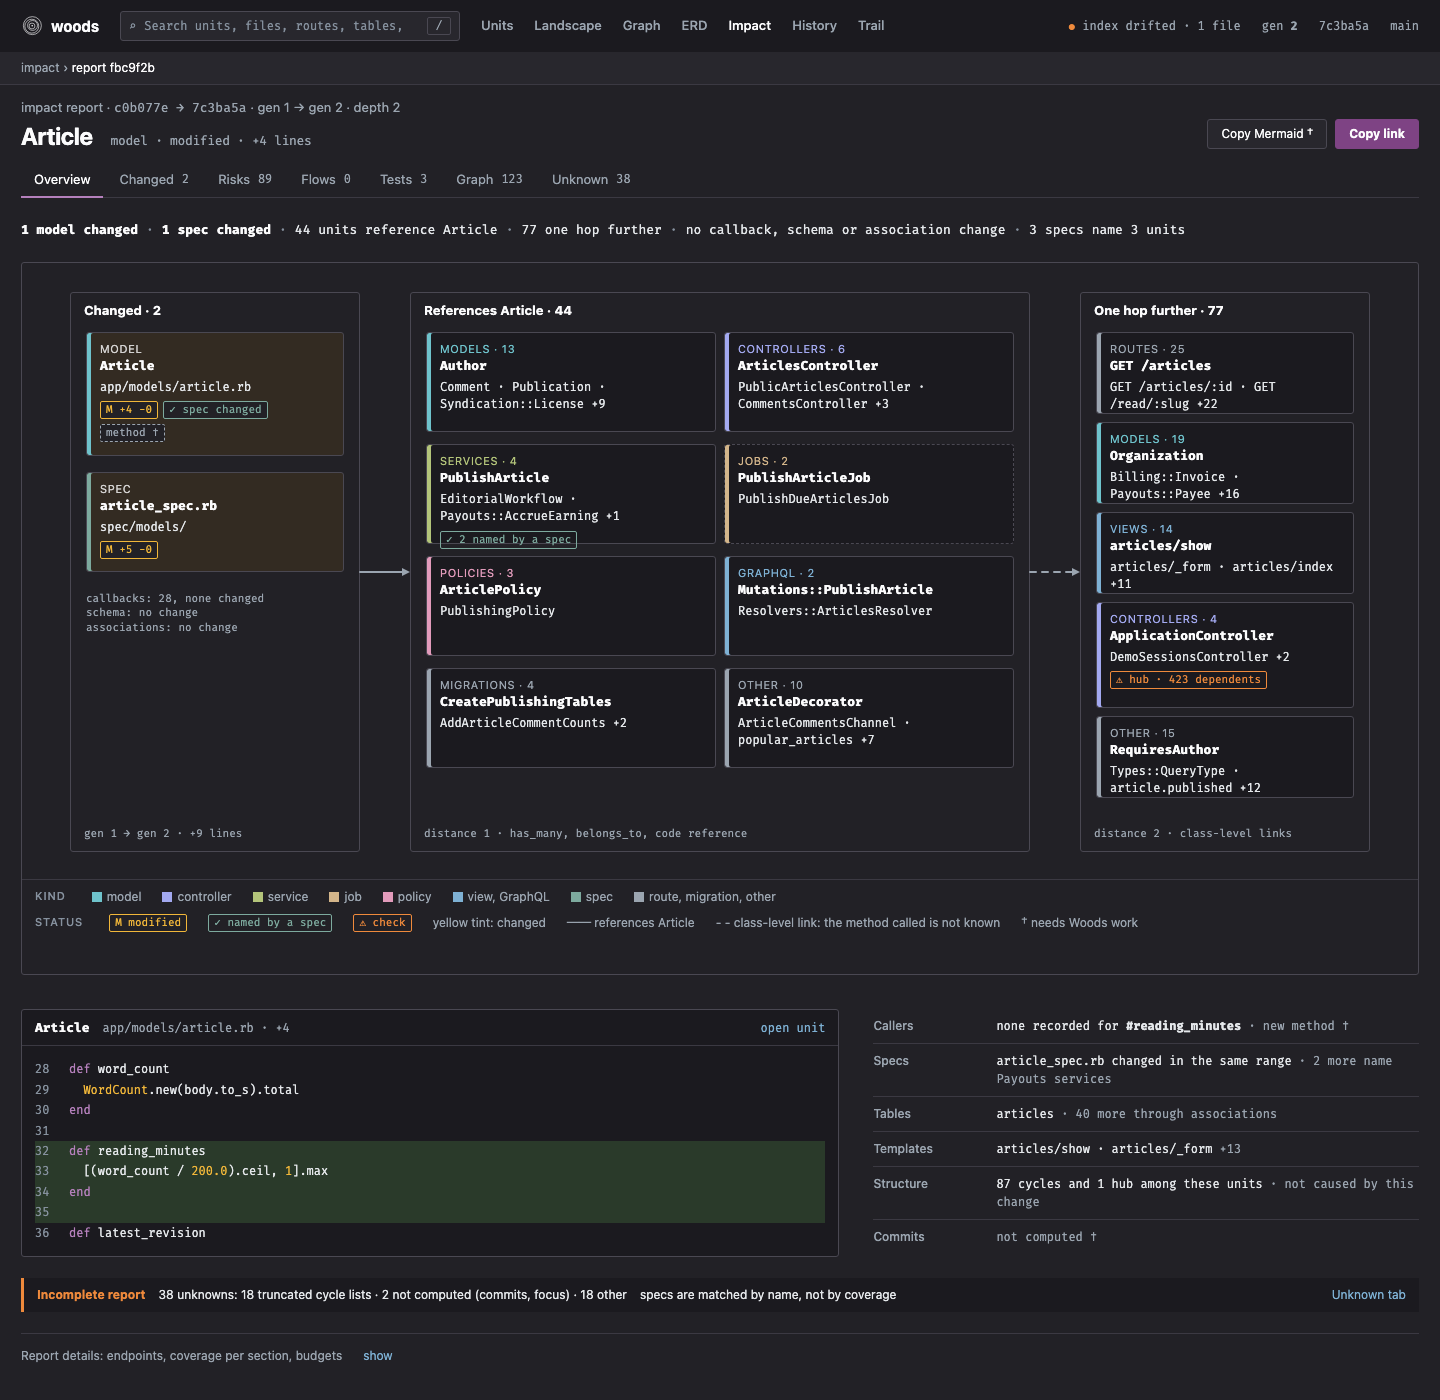
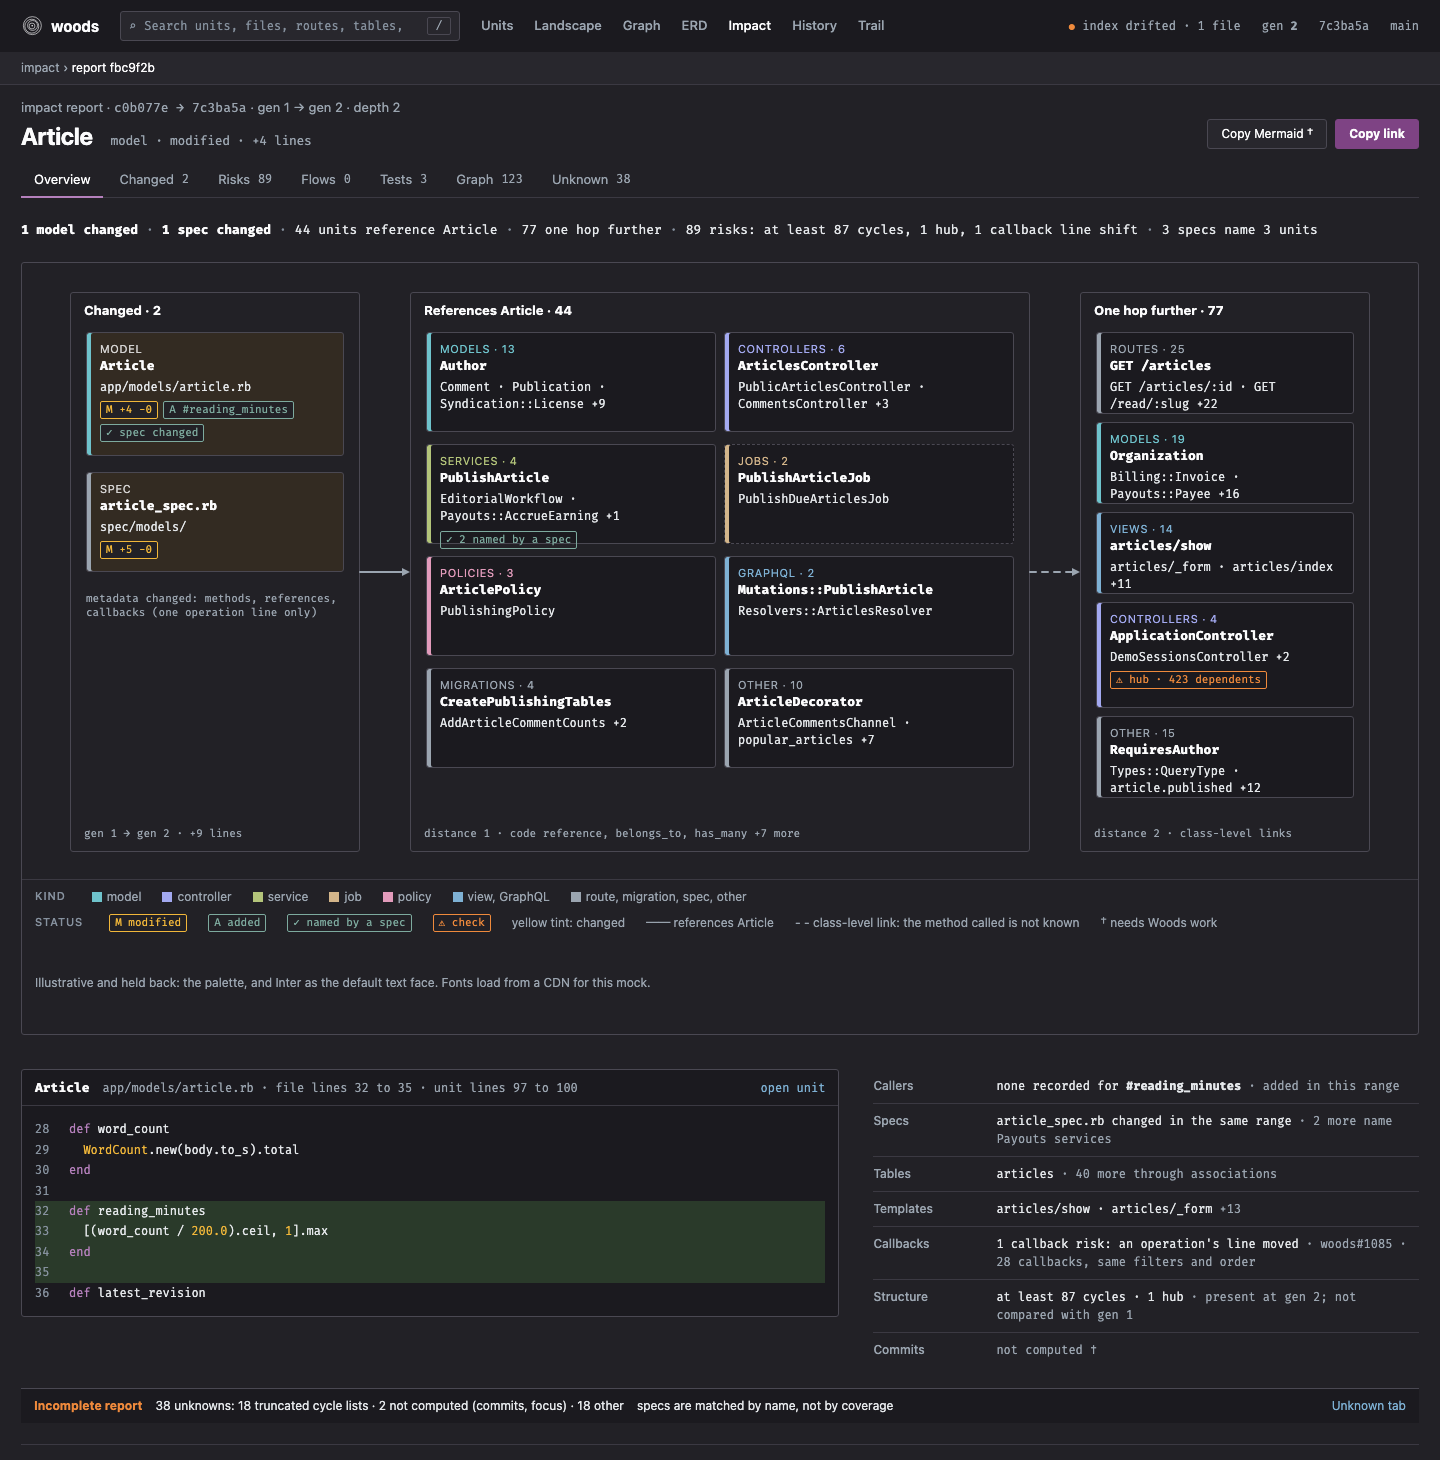
docs(design): correct the impact report board after review
Names the callback risk and its cause, states cycles and hubs as a floor read at gen 2, shows the changed method name, gives file and unit lines, and takes the status green off the spec kind.

diff --git a/docs/design/proposals/ux-review-2026-11/boards/impact-report.html b/docs/design/proposals/ux-review-2026-11/boards/impact-report.html
@@ -4,9 +4,8 @@
 <link rel="stylesheet" href="../../../foundations/tokens.css">
 <link rel="stylesheet" href="../review.css">
 <style>body{margin:0;background:#222126}
-.wm{--kind-spec:var(--l-green)} .wm .k-spec{--kc:var(--kind-spec)}
 .wm .dbox{align-items:flex-start;padding-top:var(--s3)}
-.wm .lim{display:flex;flex-wrap:wrap;gap:var(--s2) var(--s4);align-items:center;margin-top:var(--s5);padding:var(--s3) var(--s4);border-left:3px solid var(--l-orange);background:var(--panel);font-size:var(--fs-12);color:var(--text)}
+.wm .lim{display:flex;flex-wrap:wrap;gap:var(--s2) var(--s4);align-items:center;margin-top:var(--s5);padding:var(--s3) var(--s4);border-top:1px solid var(--rule2);background:var(--panel);font-size:var(--fs-12);color:var(--text)}
 .wm .lim b{color:var(--l-orange);font-weight:700} .wm .lim a{margin-left:auto}
 .wm .more{display:flex;gap:var(--s5);margin-top:var(--s5);padding-top:var(--s4);border-top:1px solid var(--rule);font-size:var(--fs-12);color:var(--mut)}
 </style></head>
@@ -16,16 +15,16 @@
 <div class="ident"><div><p class="ctx">impact report · <span class="id">c0b077e → 7c3ba5a</span> · gen 1 → gen 2 · depth 2</p><h1 class="t1">Article <span class="sub">model · modified · +4 lines</span></h1></div><div class="ctl"><button class="btn" type="button">Copy Mermaid †</button><button class="btn primary" type="button">Copy link</button></div></div>
 <div class="tabs page-tabs" role="tablist"><button class="tab" role="tab" type="button" aria-selected="true">Overview</button><button class="tab" role="tab" type="button" aria-selected="false">Changed <span class="cnt">2</span></button><button class="tab" role="tab" type="button" aria-selected="false">Risks <span class="cnt">89</span></button><button class="tab" role="tab" type="button" aria-selected="false">Flows <span class="cnt">0</span></button><button class="tab" role="tab" type="button" aria-selected="false">Tests <span class="cnt">3</span></button><button class="tab" role="tab" type="button" aria-selected="false">Graph <span class="cnt">123</span></button><button class="tab" role="tab" type="button" aria-selected="false">Unknown <span class="cnt">38</span></button></div>
 <div class="r4">
-<p class="sum"><b>1 model changed</b><span class="sep">·</span><b>1 spec changed</b><span class="sep">·</span>44 units reference Article<span class="sep">·</span>77 one hop further<span class="sep">·</span>no callback, schema or association change<span class="sep">·</span>3 specs name 3 units</p>
+<p class="sum"><b>1 model changed</b><span class="sep">·</span><b>1 spec changed</b><span class="sep">·</span>44 units reference Article<span class="sep">·</span>77 one hop further<span class="sep">·</span>89 risks: at least 87 cycles, 1 hub, 1 callback line shift<span class="sep">·</span>3 specs name 3 units</p>
 <div class="dia"><div class="dhost" role="img" aria-label="Article and its spec changed. 44 units reference Article directly, grouped by kind. 77 more units are one hop further." style="width:1320px;height:590px;margin:var(--s4) auto">
 <div class="dgroup" style="left:10px;top:16px;width:290px;height:560px"><span>Changed · 2</span><em>gen 1 → gen 2 · +9 lines</em></div>
-<div class="dgroup" style="left:350px;top:16px;width:620px;height:560px"><span>References Article · 44</span><em>distance 1 · has_many, belongs_to, code reference</em></div>
+<div class="dgroup" style="left:350px;top:16px;width:620px;height:560px"><span>References Article · 44</span><em>distance 1 · code reference, belongs_to, has_many +7 more</em></div>
 <div class="dgroup" style="left:1020px;top:16px;width:290px;height:560px"><span>One hop further · 77</span><em>distance 2 · class-level links</em></div>
 <svg aria-hidden="true" width="54" height="8" style="position:absolute;left:296px;top:292px;overflow:visible;fill:none;stroke:#9BA5B0;stroke-width:2;stroke-linecap:round"><defs><marker id="ah" orient="auto" markerWidth="5" markerHeight="5" refX="2" refY="2" overflow="visible"><path d="M0 0 L4 2 L0 4 Z" style="stroke:none;fill:#9BA5B0"/></marker></defs><path d="M 4 4 L 50 4" marker-end="url(#ah)"></path></svg>
 <svg aria-hidden="true" width="54" height="8" style="position:absolute;left:966px;top:292px;overflow:visible;fill:none;stroke:#9BA5B0;stroke-width:2;stroke-linecap:round;stroke-dasharray:6 6"><defs><marker id="ah" orient="auto" markerWidth="5" markerHeight="5" refX="2" refY="2" overflow="visible"><path d="M0 0 L4 2 L0 4 Z" style="stroke:none;fill:#9BA5B0"/></marker></defs><path d="M 4 4 L 50 4" marker-end="url(#ah)"></path></svg>
-<div class="dbox k-model chgd" style="left:26px;top:56px;width:258px;height:124px"><span><span class="kd">model</span><b>Article</b><span class="names">app/models/article.rb</span><span class="chips"><span class="sv m">M +4 −0</span><span class="sv ok">✓ spec changed</span><span class="sv q">method †</span></span></span></div>
-<div class="dbox k-spec chgd" style="left:26px;top:196px;width:258px;height:100px"><span><span class="kd">spec</span><b>article_spec.rb</b><span class="names">spec/models/</span><span class="chips"><span class="sv m">M +5 −0</span></span></span></div>
-<div class="dlab" style="left:26px;top:316px;width:258px;text-align:left">callbacks: 28, none changed<br>schema: no change<br>associations: no change</div>
+<div class="dbox k-model chgd" style="left:26px;top:56px;width:258px;height:124px"><span><span class="kd">model</span><b>Article</b><span class="names">app/models/article.rb</span><span class="chips"><span class="sv m">M +4 −0</span><span class="sv a">A #reading_minutes</span><span class="sv ok">✓ spec changed</span></span></span></div>
+<div class="dbox k-route chgd" style="left:26px;top:196px;width:258px;height:100px"><span><span class="kd">spec</span><b>article_spec.rb</b><span class="names">spec/models/</span><span class="chips"><span class="sv m">M +5 −0</span></span></span></div>
+<div class="dlab" style="left:26px;top:316px;width:258px;text-align:left">metadata changed: methods, references,<br>callbacks (one operation line only)</div>
 <div class="dbox k-model " style="left:366px;top:56px;width:290px;height:100px"><span><span class="kd">models · 13</span><b>Author</b><span class="names">Comment · Publication · Syndication::License +9</span></span></div>
 <div class="dbox k-controller " style="left:664px;top:56px;width:290px;height:100px"><span><span class="kd">controllers · 6</span><b>ArticlesController</b><span class="names">PublicArticlesController · CommentsController +3</span></span></div>
 <div class="dbox k-service " style="left:366px;top:168px;width:290px;height:100px"><span><span class="kd">services · 4</span><b>PublishArticle</b><span class="names">EditorialWorkflow · Payouts::AccrueEarning +1</span><span class="chips"><span class="sv ok">✓ 2 named by a spec</span></span></span></div>
@@ -40,11 +39,11 @@
 <div class="dbox k-controller " style="left:1036px;top:326px;width:258px;height:106px"><span><span class="kd">controllers · 4</span><b>ApplicationController</b><span class="names">DemoSessionsController +2</span><span class="chips"><span class="sv w">⚠ hub · 423 dependents</span></span></span></div>
 <div class="dbox k-route " style="left:1036px;top:440px;width:258px;height:82px"><span><span class="kd">other · 15</span><b>RequiresAuthor</b><span class="names">Types::QueryType · article.published +12</span></span></div>
 </div>
-<div class="keys"><b>kind</b><span class="k-model"><i></i>model</span><span class="k-controller"><i></i>controller</span><span class="k-service"><i></i>service</span><span class="k-job"><i></i>job</span><span class="k-filter"><i></i>policy</span><span class="k-view"><i></i>view, GraphQL</span><span class="k-spec"><i></i>spec</span><span class="k-route"><i></i>route, migration, other</span></div>
-<div class="keys two"><b>status</b><span class="sv m">M modified</span><span class="sv ok">✓ named by a spec</span><span class="sv w">⚠ check</span><span>yellow tint: changed</span><span>── references Article</span><span>- - class-level link: the method called is not known</span><span>† needs Woods work</span></div></div>
+<div class="keys"><b>kind</b><span class="k-model"><i></i>model</span><span class="k-controller"><i></i>controller</span><span class="k-service"><i></i>service</span><span class="k-job"><i></i>job</span><span class="k-filter"><i></i>policy</span><span class="k-view"><i></i>view, GraphQL</span><span class="k-route"><i></i>route, migration, spec, other</span></div>
+<div class="keys two"><b>status</b><span class="sv m">M modified</span><span class="sv a">A added</span><span class="sv ok">✓ named by a spec</span><span class="sv w">⚠ check</span><span>yellow tint: changed</span><span>── references Article</span><span>- - class-level link: the method called is not known</span><span>† needs Woods work</span></div><div class="keys two"><span>Illustrative and held back: the palette, and Inter as the default text face. Fonts load from a CDN for this mock.</span></div></div>
 
 <div class="under">
-<div class="src"><header><b>Article</b><span>app/models/article.rb · +4</span><a href="#">open unit</a></header>
+<div class="src"><header><b>Article</b><span>app/models/article.rb · file lines 32 to 35 · unit lines 97 to 100</span><a href="#">open unit</a></header>
 <pre><span class="ln">28</span><span class="kw">def</span> word_count
 <span class="ln">29</span>  <span class="cn">WordCount</span>.new(body.to_s).total
 <span class="ln">30</span><span class="kw">end</span>
@@ -55,11 +54,12 @@
 <span class="add"><span class="ln">35</span></span>
 <span class="ln">36</span><span class="kw">def</span> latest_revision</pre></div>
 <table class="facts2">
-<tr><th>Callers</th><td>none recorded for <b>#reading_minutes</b> <span class="q">· new method †</span></td></tr>
+<tr><th>Callers</th><td>none recorded for <b>#reading_minutes</b> <span class="q">· added in this range</span></td></tr>
 <tr><th>Specs</th><td>article_spec.rb changed in the same range <span class="q">· 2 more name Payouts services</span></td></tr>
 <tr><th>Tables</th><td>articles <span class="q">· 40 more through associations</span></td></tr>
 <tr><th>Templates</th><td>articles/show · articles/_form <span class="q">+13</span></td></tr>
-<tr><th>Structure</th><td>87 cycles and 1 hub among these units <span class="q">· not caused by this change</span></td></tr>
+<tr><th>Callbacks</th><td>1 callback risk: an operation's line moved <span class="q">· woods#1085 · 28 callbacks, same filters and order</span></td></tr>
+<tr><th>Structure</th><td>at least 87 cycles · 1 hub <span class="q">· present at gen 2; not compared with gen 1</span></td></tr>
 <tr><th>Commits</th><td><span class="q">not computed †</span></td></tr>
 </table>
 </div>

diff --git a/docs/design/proposals/ux-review-2026-11/README.md b/docs/design/proposals/ux-review-2026-11/README.md
@@ -65,12 +65,16 @@ Every name and count comes from that report.
 | Title is `gen 1 → gen 2` | Title is the changed unit |
 | First screen is a table of the report's own sections | First screen is the changed units and what references them, by kind |
 | Affected units listed in alphabetical order | Highest-weight names first in each kind, then a count |
-| 89 risks, none caused by the change | Structure facts in one row, marked as not caused by the change |
+| 89 risks in one count | The same 89, named: at least 87 cycles, 1 hub, and 1 callback risk that is a line shift (woods#1085). Cycles and hubs are read at gen 2 and are not compared with gen 1 |
 | Three warnings before the content | One line under the content, linking to the Unknown tab |
 | Endpoints, coverage and budgets fill half the page | One closed row at the foot. Nothing is removed |
 
-The tabs keep today's names and counts. `†` marks the changed method name,
-commits and Mermaid text for a range, which Woods does not publish today.
+The tabs keep today's names and counts. `†` marks commits and Mermaid text
+for a range, which Woods does not publish today. The changed method name is
+not marked: the map already joins hunks to method extents for `?since=`
+(`Since#changed_members` in `lib/woods_map/since.rb`), and the impact page
+does not call it yet. The source panel gives file lines and unit lines: a
+hunk is in the unit's published-source lines, with concerns inlined.
 
 ## Not in this proposal
 
